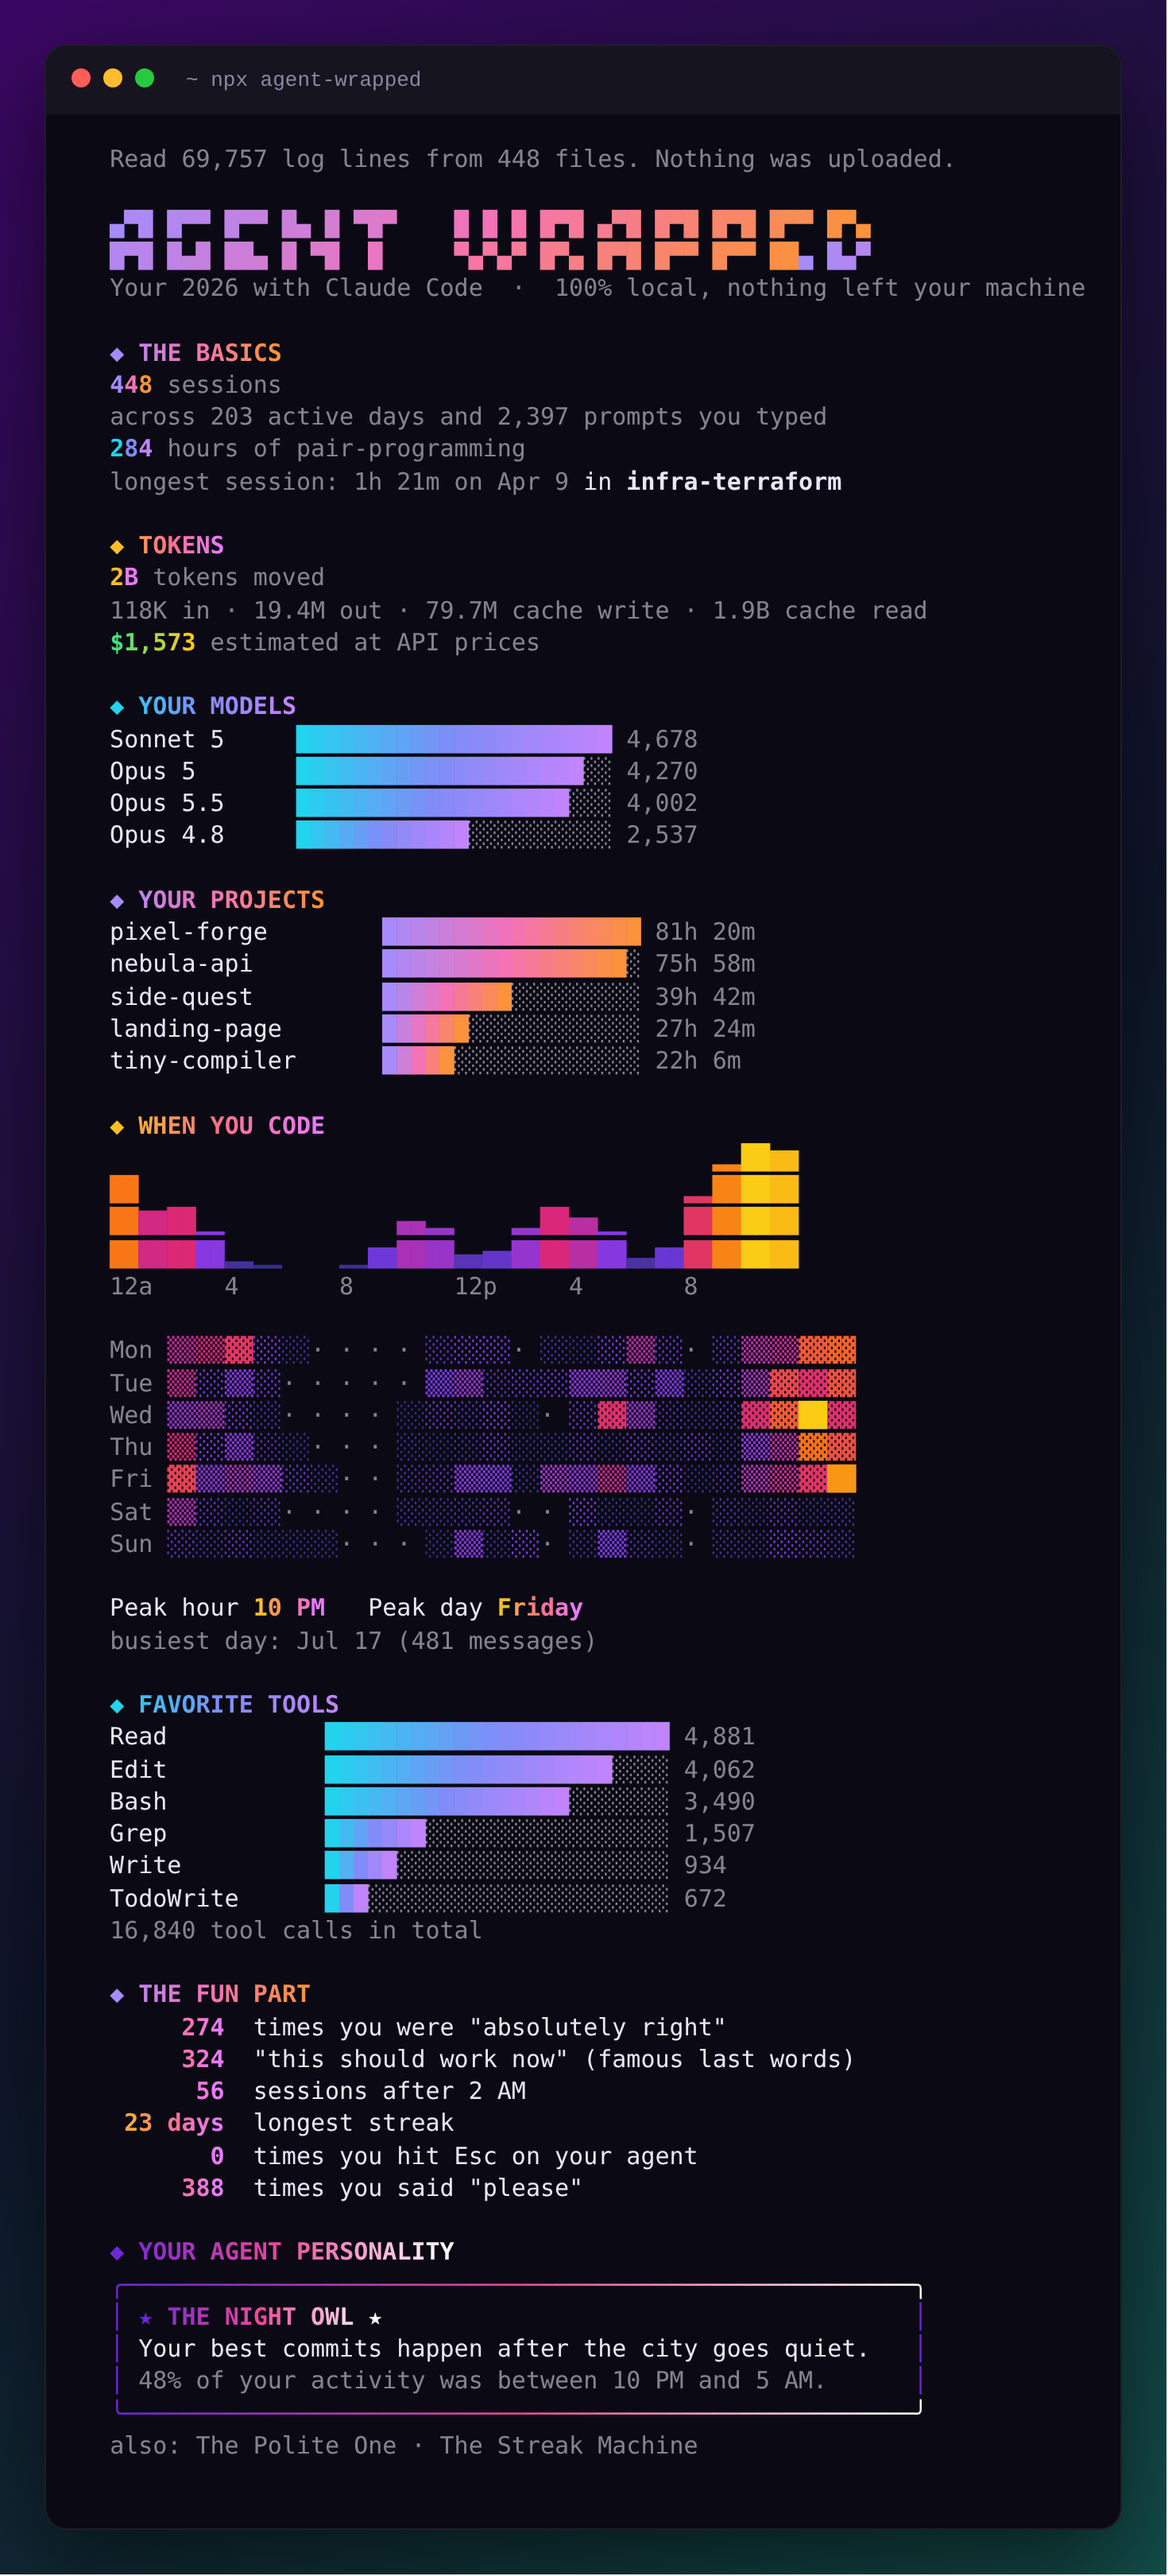
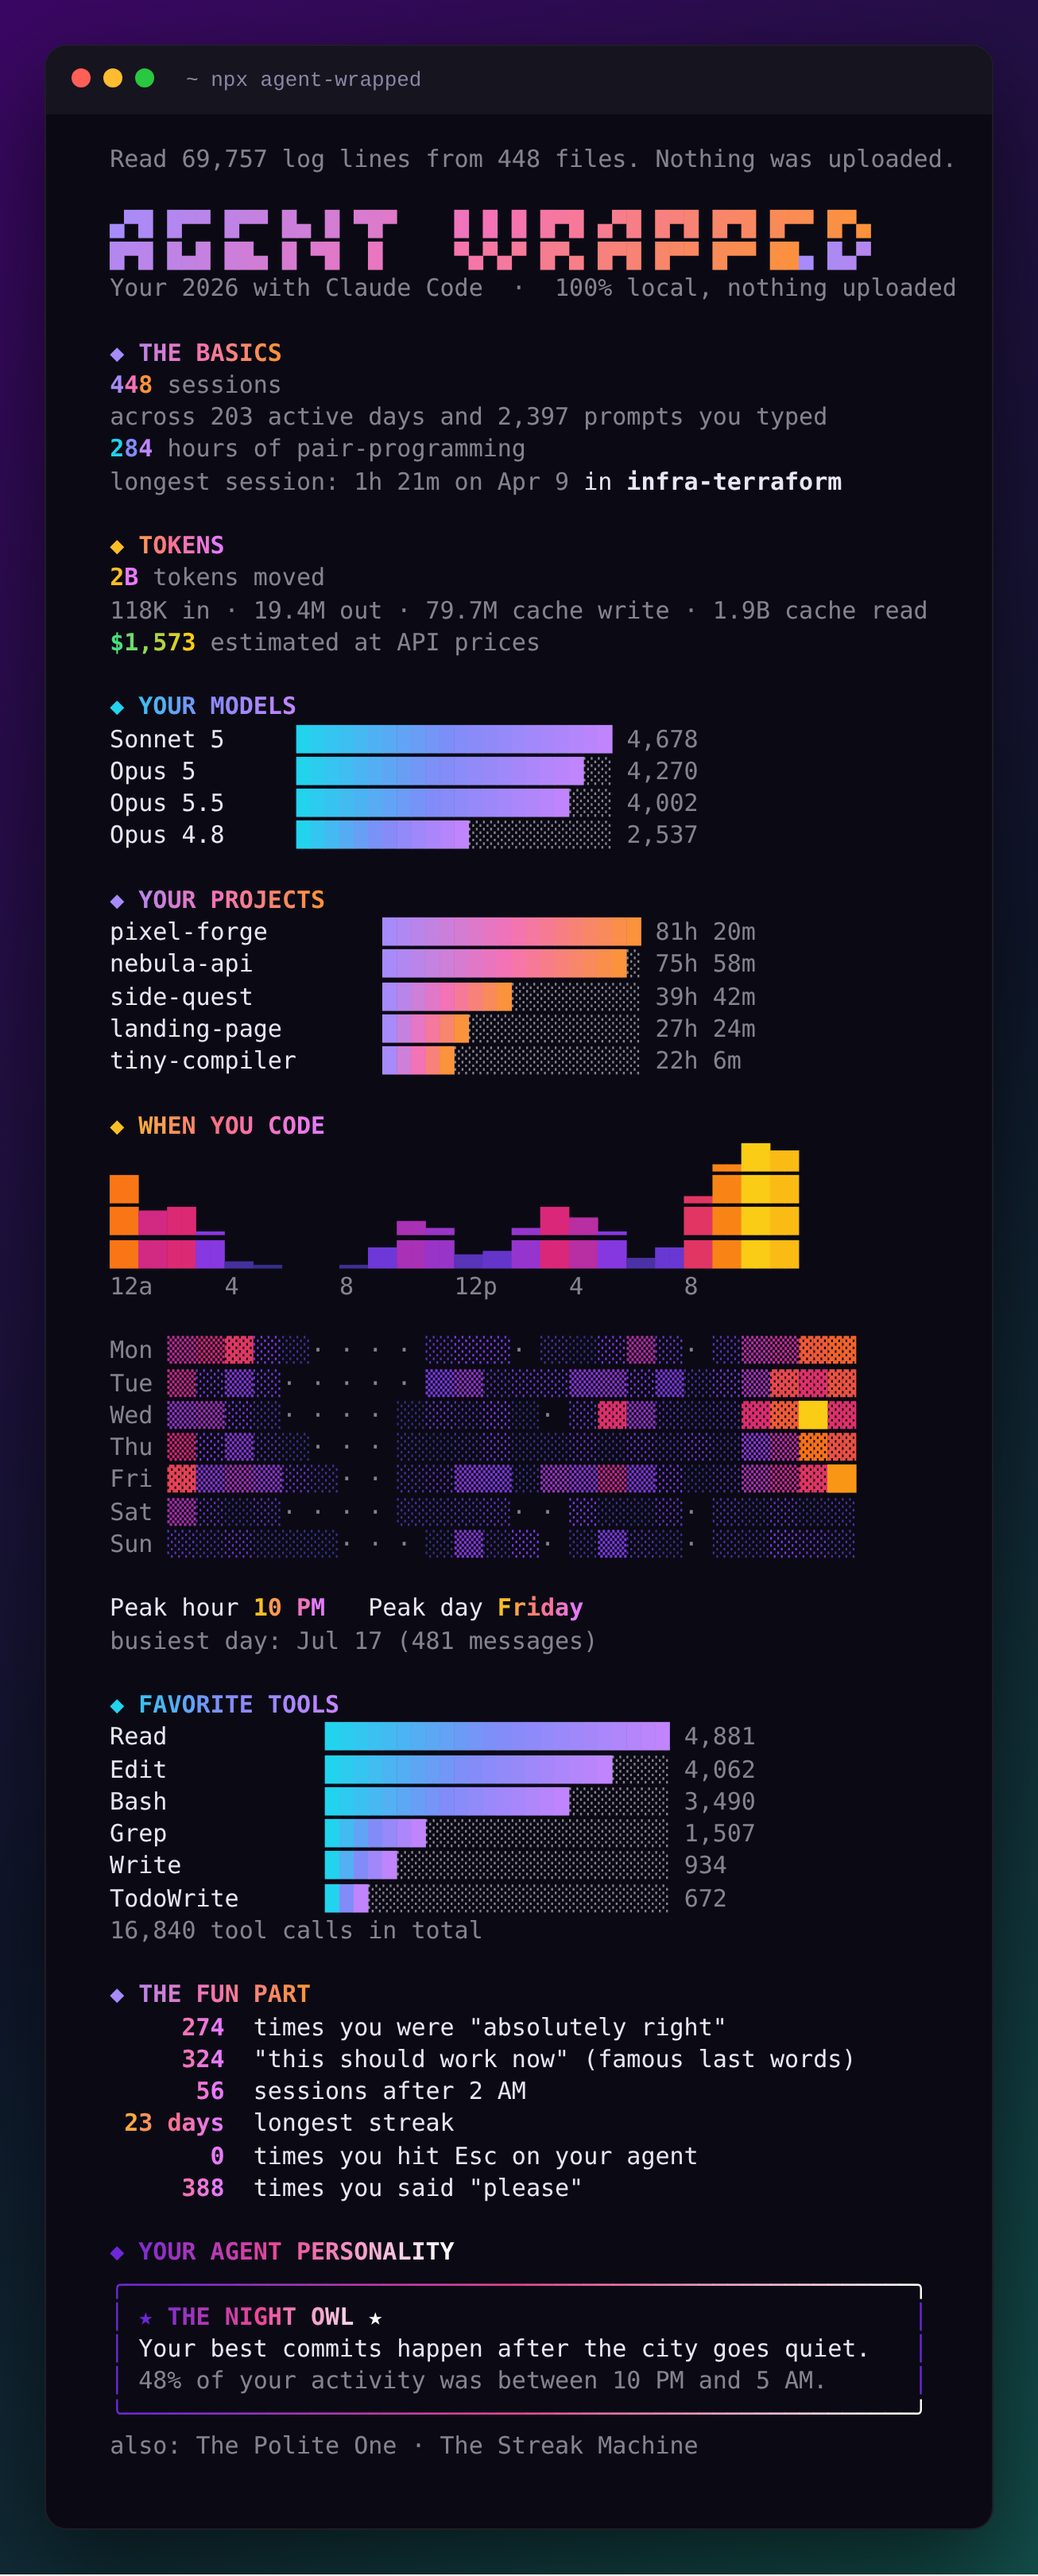
fix: keep the intro and closing lines under 72 columns
Claude-Session: https://claude.ai/code/session_01Dz5RkovZcNWMJZo3aTrPCS

diff --git a/src/render/terminal.ts b/src/render/terminal.ts
@@ -94,11 +94,7 @@ export async function reveal(stats: WrappedStats, options: RevealOptions): Promi
   const [top, bottom] = banner('agent wrapped');
   line(paint.gradient(top, BRAND));
   line(paint.gradient(bottom, BRAND, 0.08));
-  line(
-    paint.dim(
-      `Your ${stats.period.label} with Claude Code  ·  100% local, nothing left your machine`,
-    ),
-  );
+  line(paint.dim(`Your ${stats.period.label} with Claude Code  ·  100% local, nothing uploaded`));
 
   if (stats.empty) {
     line();

diff --git a/src/cli.ts b/src/cli.ts
@@ -107,7 +107,8 @@ async function main(argv: string[]): Promise<number> {
       const shown = relative(process.cwd(), path) || path;
       log(`  ${shown.startsWith('..') ? path : shown}`);
     }
-    log(paint.dim('1200x675 for X / LinkedIn, 1080x1920 for stories. Share it with #AgentWrapped'));
+    log(paint.dim('1200x675 for X / LinkedIn · 1080x1920 for stories'));
+    log(`Share it with ${paint.bold(paint.gradient('#AgentWrapped', BRAND))}`);
     log('');
   }
   return 0;
